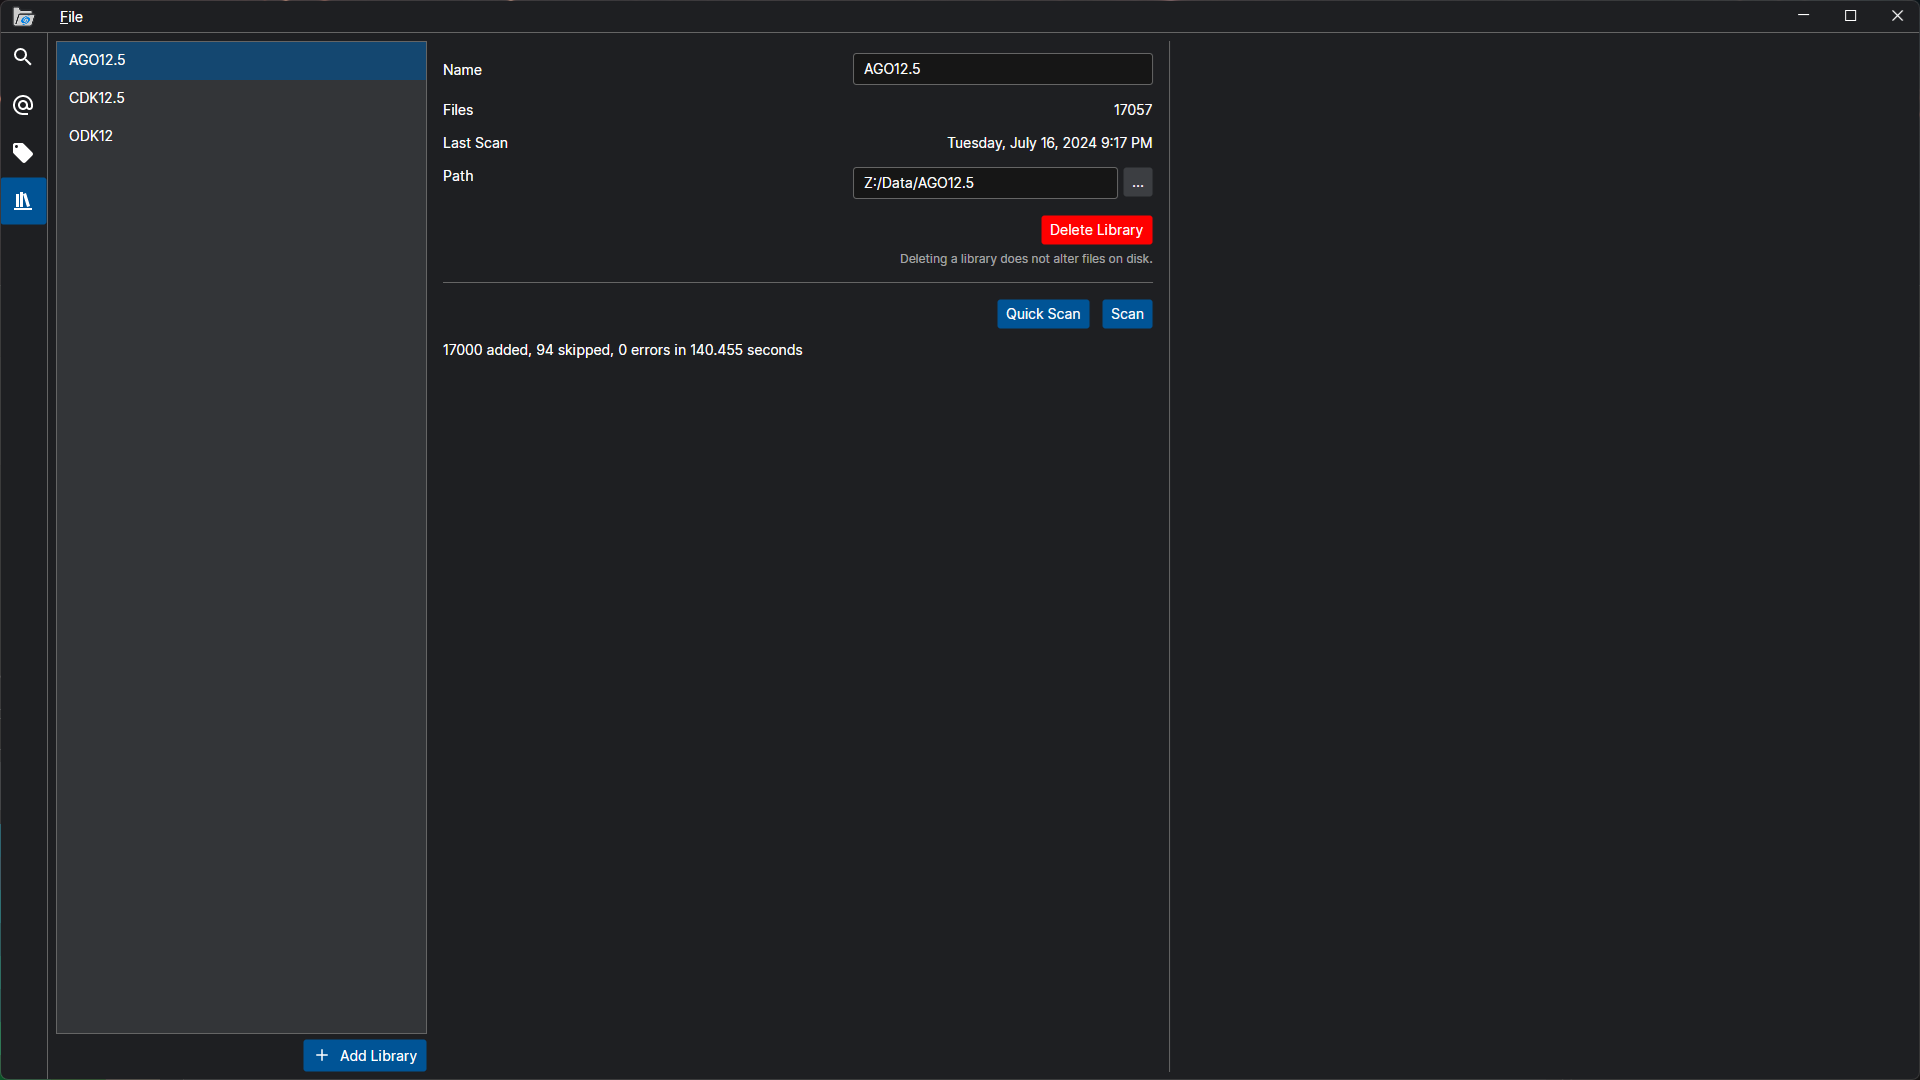
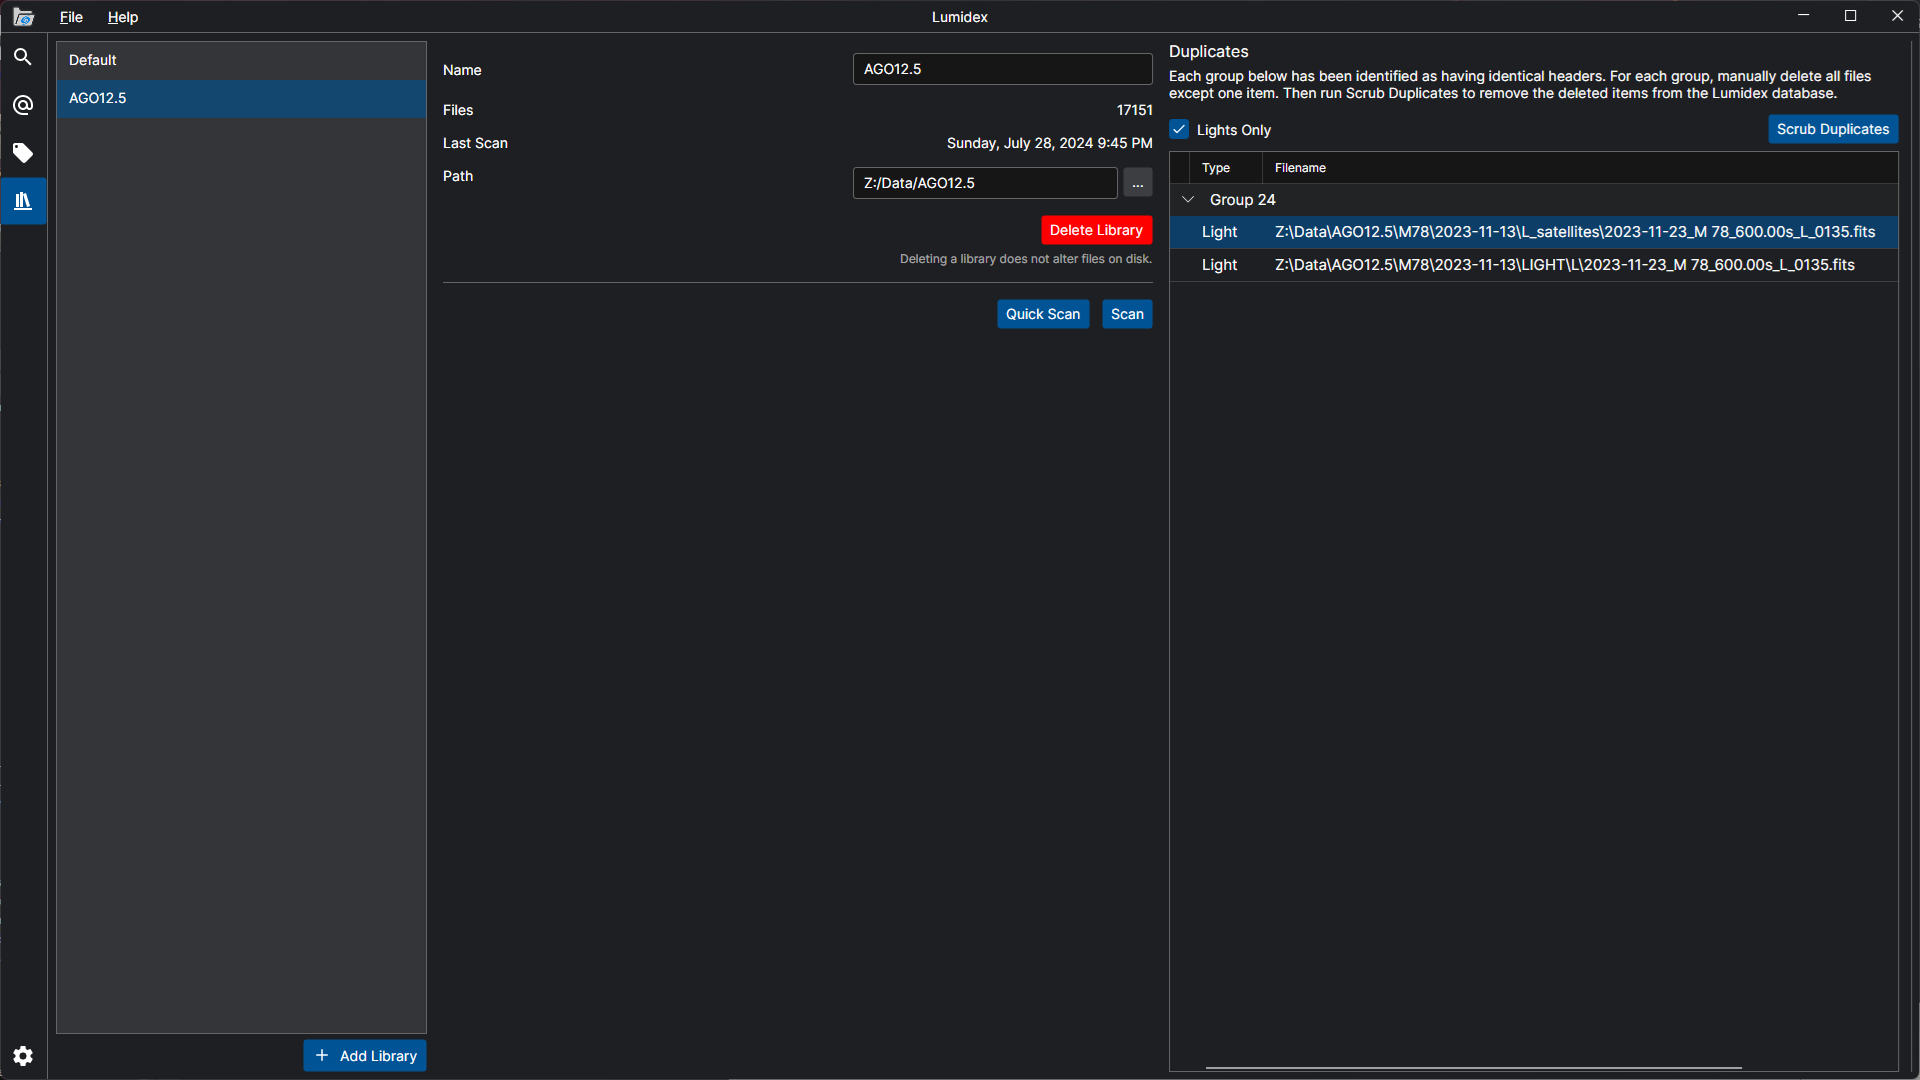
Update readme (#45)

diff --git a/README.md b/README.md
@@ -14,6 +14,11 @@ Data is never altered in any way.
 - Tags -> Group your images with tags
 - Quick Scan -> only scan files added since the last scan
 - Statistics -> See your total integration time and breakdown by filter
+- Advanced Filters -> Search the database by most header fields
+- Image Export -> Copy images to a destination folder
+- Astrobin Export -> Export acquisition details in Astrobin CSV format
+- Duplicate Detection -> See a list of duplicate images so you can track them down
+- Edit Data -> Edit the database contents for images so you have consistent data (does not alter files)
 
 ## Get Lumidex
 
@@ -32,3 +37,9 @@ Check out the repo [releases](https://github.com/alexhelms/lumidex/releases) to 
 
 ### Library
 ![Library](/assets/lumidex_library.png?raw=true "Library")
+
+### Astrobin Export
+![Astrobin Export](/assets/lumidex_astrobin_export.png?raw=true "Astrobin Export")
+
+### File Export
+![File Export](/assets/lumidex_file_export.png?raw=true "File Export")
